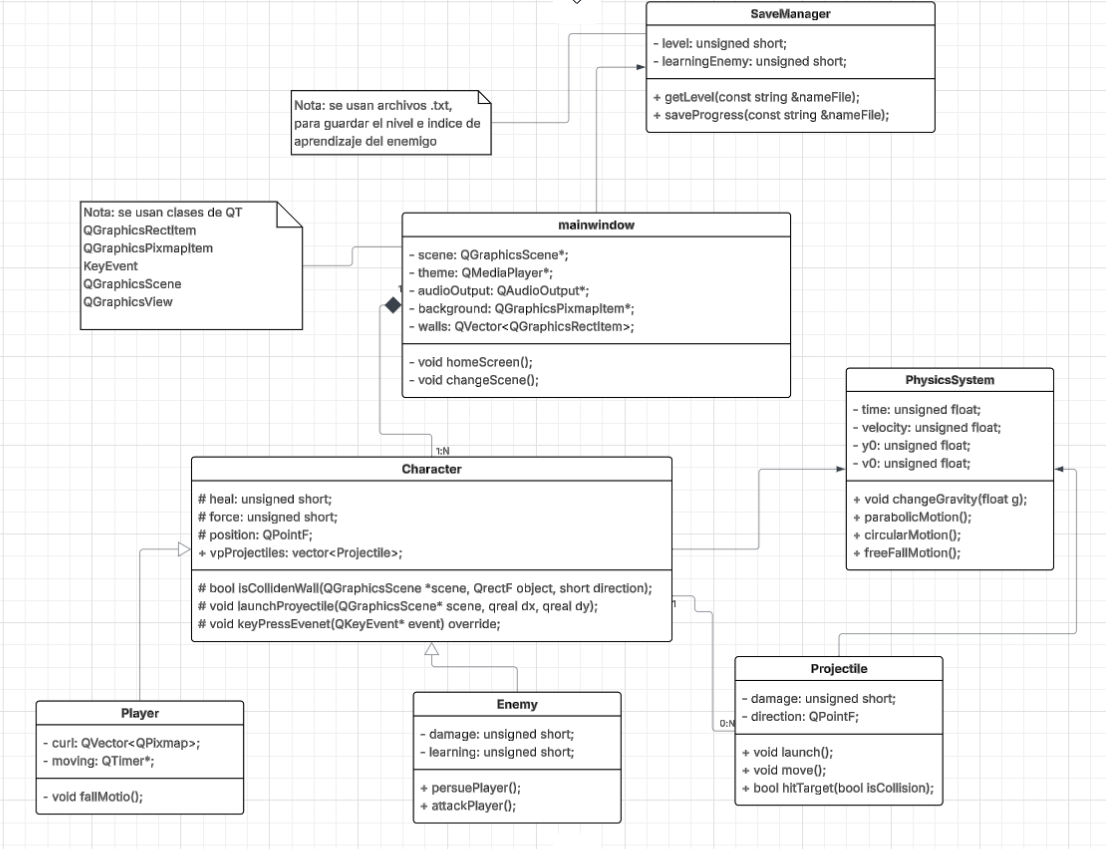
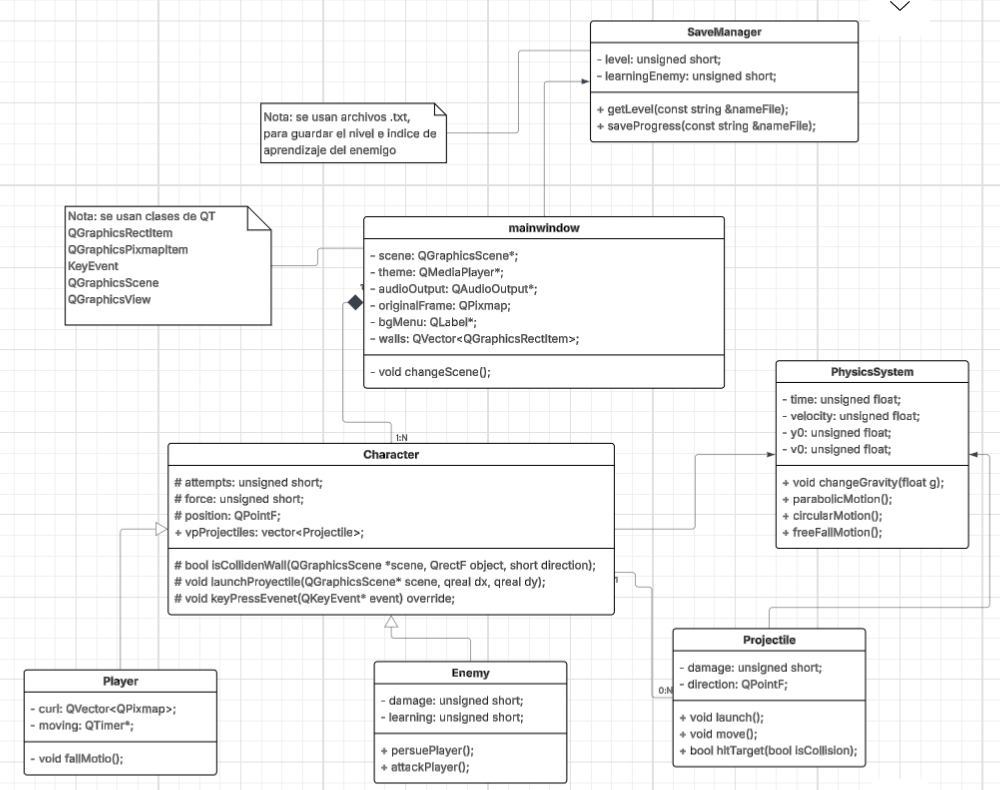
menu de inicio y desarrollo primer nivel

diff --git a/codigo/Proyecto_final/mainwindow.cpp b/codigo/Proyecto_final/mainwindow.cpp
@@ -1,14 +1,183 @@
 #include "mainwindow.h"
 #include "ui_mainwindow.h"
+#include <QTimer>
+#include <QFontDatabase>
+#include <QFile>
+#include "classes/player.h"
 
 MainWindow::MainWindow(QWidget *parent)
     : QMainWindow(parent)
     , ui(new Ui::MainWindow)
 {
     ui->setupUi(this);
+
+    QFontDatabase::addApplicationFont(":/fonts/Orbitron-Medium.ttf");
+
+    this->stack = new QStackedWidget(this); //gestor de "escenas"
+    this->menuScreen = new QWidget();
+    this->menuScreen->setSizePolicy(QSizePolicy::Expanding, QSizePolicy::Expanding);
+    this->bgMenu = new QLabel(menuScreen);
+    this->audioOutput = new QAudioOutput(this); // salida del audio
+    this->theme = new QMediaPlayer(this); // tema principal
+
+    QVBoxLayout* menuLayout = new QVBoxLayout(menuScreen);
+    QLabel* title = new QLabel("Golfito");
+    QPushButton* playBtn = new QPushButton("Jugar");
+    QPushButton* exitBtn = new QPushButton("Salir");
+
+    menuLayout->setContentsMargins(0, 0, 0, 0);
+
+   QPixmap sheet(":/images/backgorund.jpg");
+   this->originalFrame = sheet;
+
+   bgMenu->lower();
+
+   playBtn->setFixedWidth(300);
+   playBtn->setCursor(Qt::PointingHandCursor);
+   menuLayout->setSpacing(15);
+   exitBtn->setFixedWidth(300);
+   exitBtn->setCursor(Qt::PointingHandCursor);
+
+   title->setStyleSheet(
+       "color: white;"
+       "font-size: 78px;"
+       "font-weight: bold;"
+       "font-family: 'Orbitron';"
+    );
+
+   playBtn->setStyleSheet(
+       "QPushButton {"
+            "background-color: rgba(0, 0, 0, 150);"
+             "color: white;"
+            "font-family: 'Orbitron';"
+            "font-size: 24px;"
+            "border: 2px solid white;"
+            "border-radius: 10px;"
+            "padding: 10px;"
+       "}"
+       "QPushButton:hover {"
+             "background-color: rgba(255, 255, 255, 50);"
+             "color: black;"
+       "}"
+
+       "QPushButton:pressed {"
+            "background-color: rgba(255, 255, 255, 100);"
+       "}"
+    );
+
+   exitBtn->setStyleSheet(
+       "QPushButton {"
+       "background-color: rgba(0, 0, 0, 150);"
+       "color: white;"
+       "font-size: 24px;"
+       "border: 2px solid white;"
+       "font-family: 'Orbitron';"
+       "border-radius: 10px;"
+       "padding: 10px;"
+       "}"
+       "QPushButton:hover {"
+       "background-color: rgba(255, 255, 255, 50);"
+       "color: black;"
+       "}"
+
+       "QPushButton:pressed {"
+            "background-color: rgba(255, 255, 255, 100);"
+       "}"
+       );
+
+   menuLayout->addStretch();
+
+   menuLayout->addWidget(title, 0, Qt::AlignCenter);
+   menuLayout->addSpacing(100);
+   menuLayout->addWidget(playBtn, 0 , Qt::AlignCenter);
+   menuLayout->addSpacing(50);
+   menuLayout->addWidget(exitBtn,  0 , Qt::AlignCenter);
+
+    menuLayout->addStretch();
+
+   this->stack->addWidget(menuScreen);
+   setCentralWidget(stack);
+
+  this->showFullScreen();
+
+  //configuracion del audio
+  this->theme->setAudioOutput(this->audioOutput);
+  this->theme->setSource(QUrl("qrc:/audio/principal-theme.mp3"));
+  this->audioOutput->setVolume(0.5);
+  this->theme->play();
+  this->theme->setLoops(QMediaPlayer::Infinite);
+
+   connect(playBtn, &QPushButton::clicked, this, [=](){
+         this->stack->setCurrentIndex(1);
+         this->theme->stop();
+   });
+
+   connect(exitBtn, &QPushButton::clicked, this, [=](){
+       close();
+   });
+
+   QTimer::singleShot(0, this, [=]() {
+       QPixmap scaled = originalFrame.scaled(
+           menuScreen->size(),
+           Qt::KeepAspectRatioByExpanding,
+           Qt::SmoothTransformation
+           );
+
+       this->bgMenu->setAlignment(Qt::AlignCenter);
+       this->bgMenu->setPixmap(scaled);
+       this->bgMenu->setGeometry(menuScreen->rect());
+
+   });
+
+   //---------------------------------------------------------------
+   // Nivel 1
+   //---------------------------------------------------------------
+
+   this->scene = new QGraphicsScene(this);
+   this->view = new QGraphicsView(scene, this);
+   this->stack->addWidget(view);
+   this->scene->setSceneRect(0, 0, 2000, 700);
+
+   this->view->setSceneRect(this->scene->sceneRect());
+   this->view->setAlignment(Qt::AlignLeft | Qt::AlignTop);
+   this->view->setHorizontalScrollBarPolicy(Qt::ScrollBarAlwaysOff);
+   this->view->setVerticalScrollBarPolicy(Qt::ScrollBarAlwaysOff);
+   this->view->setFrameShape(QFrame::NoFrame);
+   this->view->setBackgroundBrush(Qt::NoBrush);
+
+   //nivel 1
+   // QGraphicsRectItem* ground = new QGraphicsRectItem(0, 500, 2000, 100);
+   // ground->setBrush(Qt::darkGreen);
+   // scene->addItem(ground);
+
+   qDebug() << "view rect:" << view->rect();
+   qDebug() << "scene rect:" << scene->sceneRect();
+
+   QPixmap bg(":/images/bg-level-1.png");
+
+   bg = bg.scaled(scene->sceneRect().width(),
+                  scene->sceneRect().height(),
+                  Qt::IgnoreAspectRatio,
+                  Qt::SmoothTransformation);
+
+   QGraphicsPixmapItem* background = new QGraphicsPixmapItem(bg);
+
+   background->setPos(0, 0);
+   background->setZValue(-1000);
+
+   scene->addItem(background);
+
+   Player* player = new Player();
+
+   this->scene->addItem(player);
+
 }
+
+
 
 MainWindow::~MainWindow()
 {
     delete ui;
+    delete stack;
+    delete menuScreen;
 }

diff --git a/codigo/Proyecto_final/mainwindow.h b/codigo/Proyecto_final/mainwindow.h
@@ -2,6 +2,15 @@
 #define MAINWINDOW_H
 
 #include <QMainWindow>
+#include <QStackedWidget>
+#include <QWidget>
+#include <QPushButton>
+#include <QVBoxLayout>
+#include <QLabel>
+#include <QMediaPlayer>
+#include <QAudioOutput>
+#include <QGraphicsScene>
+#include <QGraphicsView>
 
 QT_BEGIN_NAMESPACE
 namespace Ui {
@@ -19,5 +28,15 @@ public:
 
 private:
     Ui::MainWindow *ui;
+
+    QStackedWidget* stack;
+    QWidget* menuScreen;
+    QPixmap originalFrame;
+    QLabel* bgMenu;
+    QAudioOutput* audioOutput;
+    QMediaPlayer* theme;
+    QGraphicsScene* scene;
+    QGraphicsView* view;
+
 };
 #endif // MAINWINDOW_H

diff --git a/codigo/Proyecto_final/classes/character.h b/codigo/Proyecto_final/classes/character.h
@@ -1,0 +1,18 @@
+#ifndef CHARACTER_H
+#define CHARACTER_H
+
+#include <QGraphicsPixmapItem>
+
+class Character : public QGraphicsPixmapItem
+{
+    public:
+        Character();
+
+    protected:
+        unsigned short attempts;
+        unsigned short force;
+
+
+};
+
+#endif // CHARACTER_H

diff --git a/codigo/Proyecto_final/classes/player.h b/codigo/Proyecto_final/classes/player.h
@@ -1,0 +1,11 @@
+#ifndef PLAYER_H
+#define PLAYER_H
+
+#include "character.h"
+
+class Player : public Character {
+public:
+    Player();
+};
+
+#endif // PLAYER_H

diff --git a/codigo/Proyecto_final/classes/player.cpp b/codigo/Proyecto_final/classes/player.cpp
@@ -1,0 +1,6 @@
+#include "player.h"
+#include <QPixmap>
+
+Player::Player() {
+   // QPixmap sonic(":");
+}

diff --git a/codigo/Proyecto_final/classes/character.cpp b/codigo/Proyecto_final/classes/character.cpp
@@ -1,0 +1,3 @@
+#include "character.h"
+
+Character::Character() {}

diff --git a/codigo/Proyecto_final/main.cpp b/codigo/Proyecto_final/main.cpp
@@ -6,6 +6,7 @@ int main(int argc, char *argv[])
 {
     QApplication a(argc, argv);
     MainWindow w;
+    w.showFullScreen();
     w.show();
     return a.exec();
 }